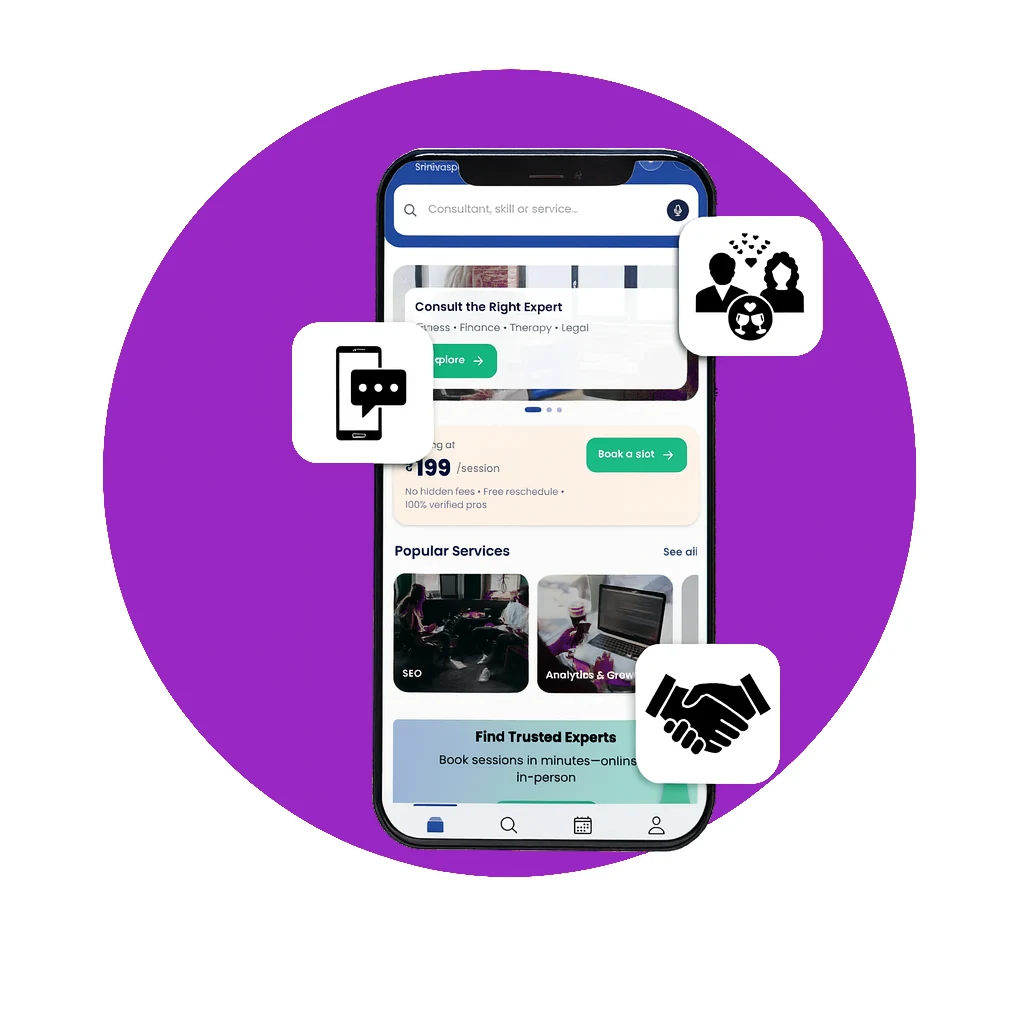
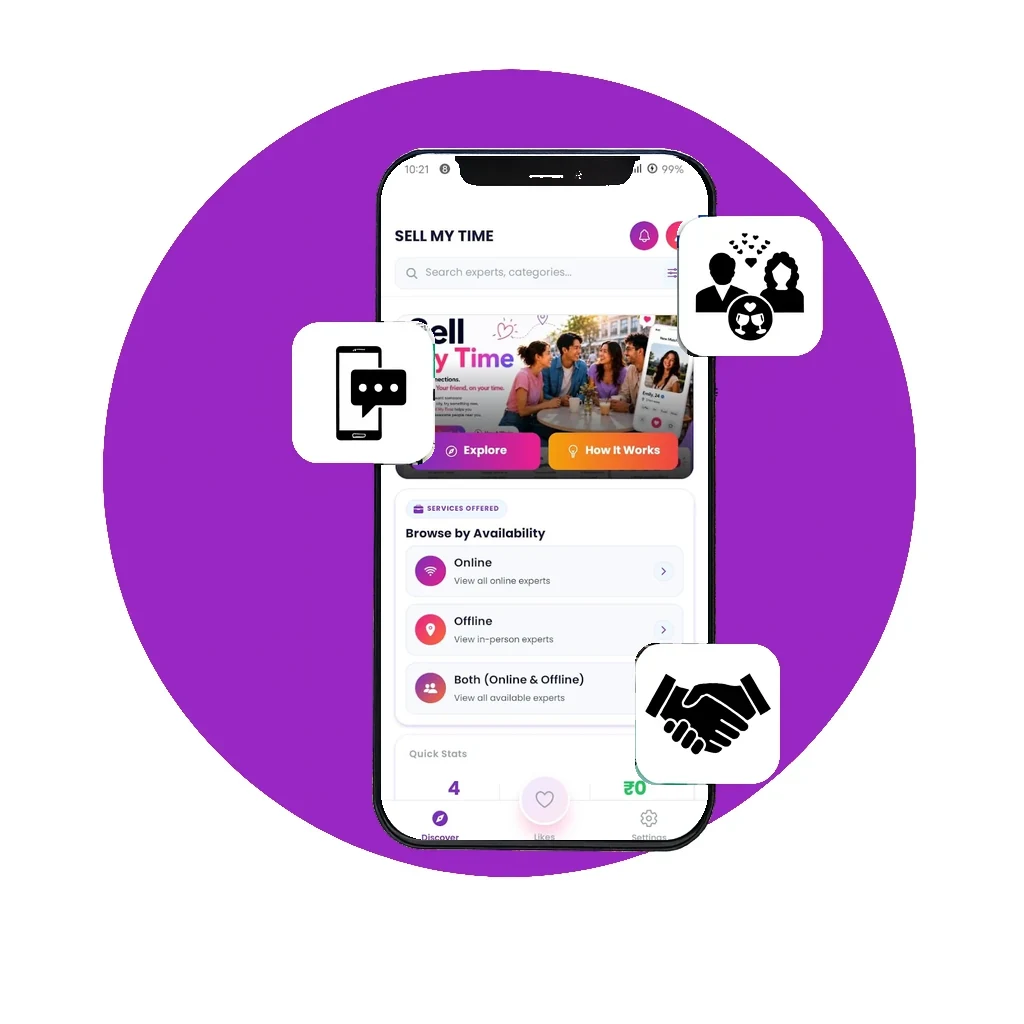
Show real Sell My Time app screenshots across the site
- Add an "App Screenshots" gallery of 10 real app screens to the Sell My Time page
- Use real screens in the About and Download phone mockups
- Put the real home screen into the hero phone (Sell My Time page and homepage banner)
- Update the homepage Sell My Time section phone with the real home screen
- Blur a user's phone number and email in the profile screenshot

Changed region(s): [[0.375, 0.125, 0.6875, 0.8438]]

diff --git a/src/sellmytime/Home.jsx b/src/sellmytime/Home.jsx
@@ -560,19 +560,27 @@
 // }
 
 // export default Home;
-import React, { useState, useEffect } from "react";
+import React, { useState, useEffect, useRef } from "react";
 import Footersellmytime from "./Footersellmytime";
 import Headersellmytime from "./Headersellmytime";
 
-import bannerImg from "../assets/network.jpg";          // <- used for both desktop + mobile hero now
-import aboutImage from "../assets/sellmytime-about.jpg";   // (kept import in case you want it elsewhere)
+import bannerImg from "../assets/sellmytime-hero.jpg";          // <- used for both desktop + mobile hero now
 
 import appStoreImg from "../assets/appstore.webp";
 import googlePlayImg from "../assets/playstore.webp";
 
-import { FaLightbulb, FaDollarSign, FaShieldAlt, FaGlobe, FaChevronDown, FaPaperPlane } from "react-icons/fa";
+import { FaLightbulb, FaDollarSign, FaShieldAlt, FaGlobe, FaChevronDown, FaPaperPlane, FaChevronLeft, FaChevronRight } from "react-icons/fa";
 import contactImg from "../assets/enquirycontact.jpg";
-import downloadBanner from "../assets/sellmytime-download.png";
+import scrWelcome from "../assets/sellmytime-scr-welcome.webp";
+import scrChoosePath from "../assets/sellmytime-scr-choose-path.webp";
+import scrHome from "../assets/sellmytime-scr-home.webp";
+import scrAllProfiles from "../assets/sellmytime-scr-all-profiles.webp";
+import scrFilters from "../assets/sellmytime-scr-filters.webp";
+import scrProfile from "../assets/sellmytime-scr-profile.webp";
+import scrPickDate from "../assets/sellmytime-scr-pick-date.webp";
+import scrPickTime from "../assets/sellmytime-scr-pick-time.webp";
+import scrFavourites from "../assets/sellmytime-scr-favourites.webp";
+import scrSettings from "../assets/sellmytime-scr-settings.webp";
 
 const PLAY_STORE_URL =
   "https://play.google.com/store/apps/details?id=com.bizmats&hl=en_IN";
@@ -1108,6 +1116,90 @@ const pageCss = `
   to { opacity: 1; transform: translateY(0); }
 }
 
+/* ---------- Phone frame (real app screenshots) ---------- */
+.smh-phone {
+  position: relative;
+  width: 100%;
+  padding: 7px;
+  border-radius: 34px;
+  background: linear-gradient(160deg, #2A1F5C 0%, var(--smh-navy) 60%);
+  box-shadow: 0 30px 60px -24px rgba(13,6,48,.55), inset 0 0 0 1.5px rgba(255,255,255,.08);
+}
+.smh-phone img {
+  display: block;
+  width: 100%;
+  aspect-ratio: 644 / 1440;
+  object-fit: cover;
+  border-radius: 27px;
+  background: var(--smh-tint);
+}
+.smh-phones {
+  position: relative;
+  display: flex;
+  justify-content: center;
+  align-items: center;
+  min-height: 520px;
+}
+.smh-phones .smh-phone { width: 230px; }
+.smh-phones .smh-phone.back { transform: translateX(62px) rotate(7deg); opacity: .96; }
+.smh-phones .smh-phone.front { position: absolute; transform: translateX(-70px) rotate(-5deg); z-index: 1; animation: smhFloat 6s ease-in-out infinite; }
+@keyframes smhFloat {
+  0%, 100% { transform: translateX(-70px) translateY(0) rotate(-5deg); }
+  50% { transform: translateX(-70px) translateY(-12px) rotate(-5deg); }
+}
+.smh-dl-visual .smh-phones { min-height: 470px; }
+.smh-dl-visual .smh-phones .smh-phone { width: 205px; }
+
+/* ---------- App screenshots gallery ---------- */
+.smh-shots {
+  position: relative;
+  padding: 100px 0 90px;
+  background: linear-gradient(180deg, var(--smh-tint) 0%, #fff 100%);
+  overflow: hidden;
+}
+.smh-shots .smh-head-center { padding: 0 20px; }
+.smh-shots-wrap { position: relative; max-width: 1280px; margin: 0 auto; }
+.smh-shots-track {
+  display: flex;
+  gap: 26px;
+  overflow-x: auto;
+  scroll-snap-type: x mandatory;
+  scroll-behavior: smooth;
+  padding: 18px 60px 34px;
+  scrollbar-width: none;
+  -webkit-mask-image: linear-gradient(90deg, transparent 0, #000 60px, #000 calc(100% - 60px), transparent 100%);
+  mask-image: linear-gradient(90deg, transparent 0, #000 60px, #000 calc(100% - 60px), transparent 100%);
+}
+.smh-shots-track::-webkit-scrollbar { display: none; }
+.smh-shot {
+  flex: 0 0 220px;
+  margin: 0;
+  scroll-snap-align: center;
+  transition: transform .35s ease;
+}
+.smh-shot:hover { transform: translateY(-8px); }
+.smh-shot:hover .smh-phone { box-shadow: 0 36px 70px -24px rgba(139,31,192,.55), inset 0 0 0 1.5px rgba(255,255,255,.08); }
+.smh-shot figcaption { text-align: center; margin-top: 16px; }
+.smh-shot figcaption strong { display: block; font-size: 15.5px; font-weight: 700; color: var(--smh-navy); }
+.smh-shot figcaption span { display: block; font-size: 13px; line-height: 1.5; color: var(--smh-muted); margin-top: 4px; }
+.smh-shots-nav {
+  position: absolute;
+  top: calc(50% - 40px);
+  z-index: 2;
+  width: 48px; height: 48px;
+  border: none;
+  border-radius: 50%;
+  display: grid; place-items: center;
+  color: #fff;
+  background: var(--smh-grad);
+  box-shadow: 0 12px 26px -10px rgba(139,31,192,.7);
+  cursor: pointer;
+  transition: transform .25s ease;
+}
+.smh-shots-nav:hover { transform: scale(1.08); }
+.smh-shots-nav.prev { left: 12px; }
+.smh-shots-nav.next { right: 12px; }
+
 /* ---------- Responsive ---------- */
 @media (max-width: 1100px) {
   .smh-why-grid { grid-template-columns: repeat(2, 1fr); }
@@ -1140,6 +1232,16 @@ const pageCss = `
   .smh-form-row { grid-template-columns: 1fr; }
   .smh-contact-visual { padding-right: 10px; }
   .smh-contact-visual::before { inset: 6% 0 -4% 8%; }
+  .smh-phones { min-height: 420px; }
+  .smh-phones .smh-phone { width: 180px; }
+  .smh-phones .smh-phone.back { transform: translateX(48px) rotate(7deg); }
+  .smh-phones .smh-phone.front { transform: translateX(-52px) rotate(-5deg); animation: none; }
+  .smh-dl-visual .smh-phones { min-height: 380px; }
+  .smh-dl-visual .smh-phones .smh-phone { width: 165px; }
+  .smh-shots { padding: 70px 0 60px; }
+  .smh-shots-track { gap: 18px; padding: 14px 24px 26px; -webkit-mask-image: none; mask-image: none; }
+  .smh-shot { flex-basis: 190px; }
+  .smh-shots-nav { display: none; }
 }
 @media (prefers-reduced-motion: reduce) {
   .smh-page *, .smh-page *::before, .smh-page *::after {
@@ -1209,6 +1311,24 @@ function Home() {
     { question: "4. Who can join Sell My Time?", answer: "Anyone with valuable skills — business mentors, teachers, fitness trainers, designers, and more." },
     { question: "5. How are payments handled?", answer: "All payments are secure and processed via the app. Experts get payouts after each session." },
   ];
+
+  const appScreens = [
+    { img: scrWelcome, title: "Welcome", text: "India's professional time marketplace." },
+    { img: scrChoosePath, title: "Choose Your Path", text: "Offer services, hire experts, or do both." },
+    { img: scrHome, title: "Discover", text: "Browse experts online, offline or both." },
+    { img: scrAllProfiles, title: "All Profiles", text: "Explore experts and their hourly rates." },
+    { img: scrFilters, title: "Smart Filters", text: "Filter by city, availability, gender, age and price." },
+    { img: scrProfile, title: "Expert Profile", text: "See an expert's details and book a session." },
+    { img: scrPickDate, title: "Choose a Date", text: "Pick online or in-person, then a date." },
+    { img: scrPickTime, title: "Pick a Time Slot", text: "Book a full day or an hourly slot." },
+    { img: scrFavourites, title: "Profiles You Love", text: "Save the experts you like." },
+    { img: scrSettings, title: "Settings", text: "Manage your profile, payouts and privacy." },
+  ];
+  const shotsRef = useRef(null);
+  const scrollShots = (dir) => {
+    const el = shotsRef.current;
+    if (el) el.scrollBy({ left: dir * 492, behavior: "smooth" });
+  };
 
   const [activeIndex, setActiveIndex] = useState(null);
   const toggleFAQ = (index) => setActiveIndex(activeIndex === index ? null : index);
@@ -1326,10 +1446,51 @@ function Home() {
             </p>
           </div>
           <div className="smh-about-visual">
-            <img src={aboutImage} alt="About Sell My Time" />
+            <div className="smh-phones">
+              <div className="smh-phone back">
+                <img src={scrProfile} alt="Sell My Time expert profile screen" loading="lazy" />
+              </div>
+              <div className="smh-phone front">
+                <img src={scrHome} alt="Sell My Time home screen" loading="lazy" />
+              </div>
+            </div>
           </div>
         </section>
       </div>
+
+      {/* ===== App Screenshots ===== */}
+      <section id="screenshots" className="smh-shots">
+        <div className="smh-head-center">
+          <span className="smh-eyebrow">Inside the App</span>
+          <h2 className="smh-h2">
+            App <span className="smh-grad-text">Screenshots</span>
+          </h2>
+          <p className="smh-sub">
+            A quick look at Sell My Time: find the right expert, pick a slot and book in a few taps.
+          </p>
+        </div>
+        <div className="smh-shots-wrap">
+          <button type="button" className="smh-shots-nav prev" onClick={() => scrollShots(-1)} aria-label="Previous screenshots">
+            <FaChevronLeft />
+          </button>
+          <div className="smh-shots-track" ref={shotsRef}>
+            {appScreens.map((sc) => (
+              <figure className="smh-shot" key={sc.title}>
+                <div className="smh-phone">
+                  <img src={sc.img} alt={`Sell My Time app: ${sc.title}`} loading="lazy" />
+                </div>
+                <figcaption>
+                  <strong>{sc.title}</strong>
+                  <span>{sc.text}</span>
+                </figcaption>
+              </figure>
+            ))}
+          </div>
+          <button type="button" className="smh-shots-nav next" onClick={() => scrollShots(1)} aria-label="Next screenshots">
+            <FaChevronRight />
+          </button>
+        </div>
+      </section>
 
       {/* ===== Why Choose Us ===== */}
       <section id="why-choose-us" className="smh-why">
@@ -1423,7 +1584,14 @@ function Home() {
             </div>
           </div>
           <div className="smh-dl-visual">
-            <img src={downloadBanner} alt="Sell My Time app preview" loading="lazy" />
+            <div className="smh-phones">
+              <div className="smh-phone back">
+                <img src={scrChoosePath} alt="Sell My Time choose your path screen" loading="lazy" />
+              </div>
+              <div className="smh-phone front">
+                <img src={scrWelcome} alt="Sell My Time welcome screen" loading="lazy" />
+              </div>
+            </div>
           </div>
         </section>
       </div>

diff --git a/src/pages/Banner.jsx b/src/pages/Banner.jsx
@@ -3,7 +3,7 @@ import { Link } from "react-router-dom";
 import "./Banner.css";
 import ban1 from "../assets/ban3.jpg";
 import ban2 from "../assets/ban2.jpg";
-import ban3 from "../assets/network.jpg";
+import ban3 from "../assets/sellmytime-hero.jpg";
 import ban4 from "../assets/masterjinew.jpg";
 import {
   FaSchool,
